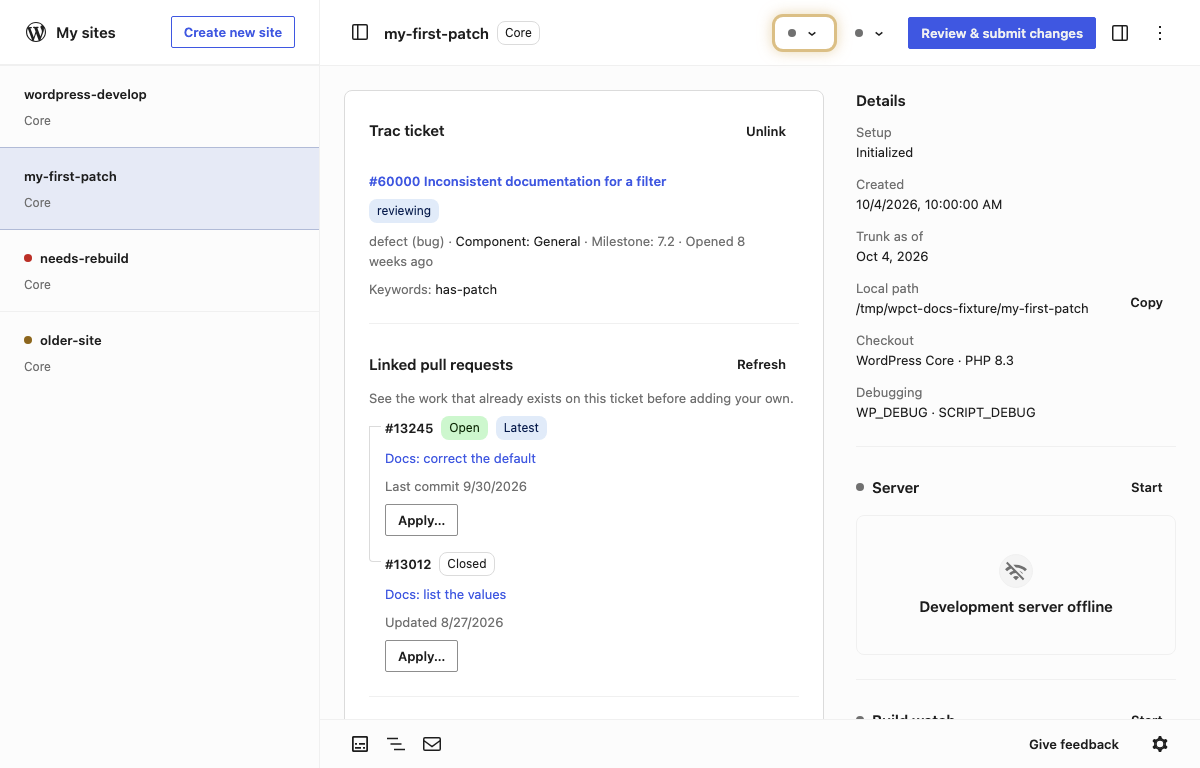
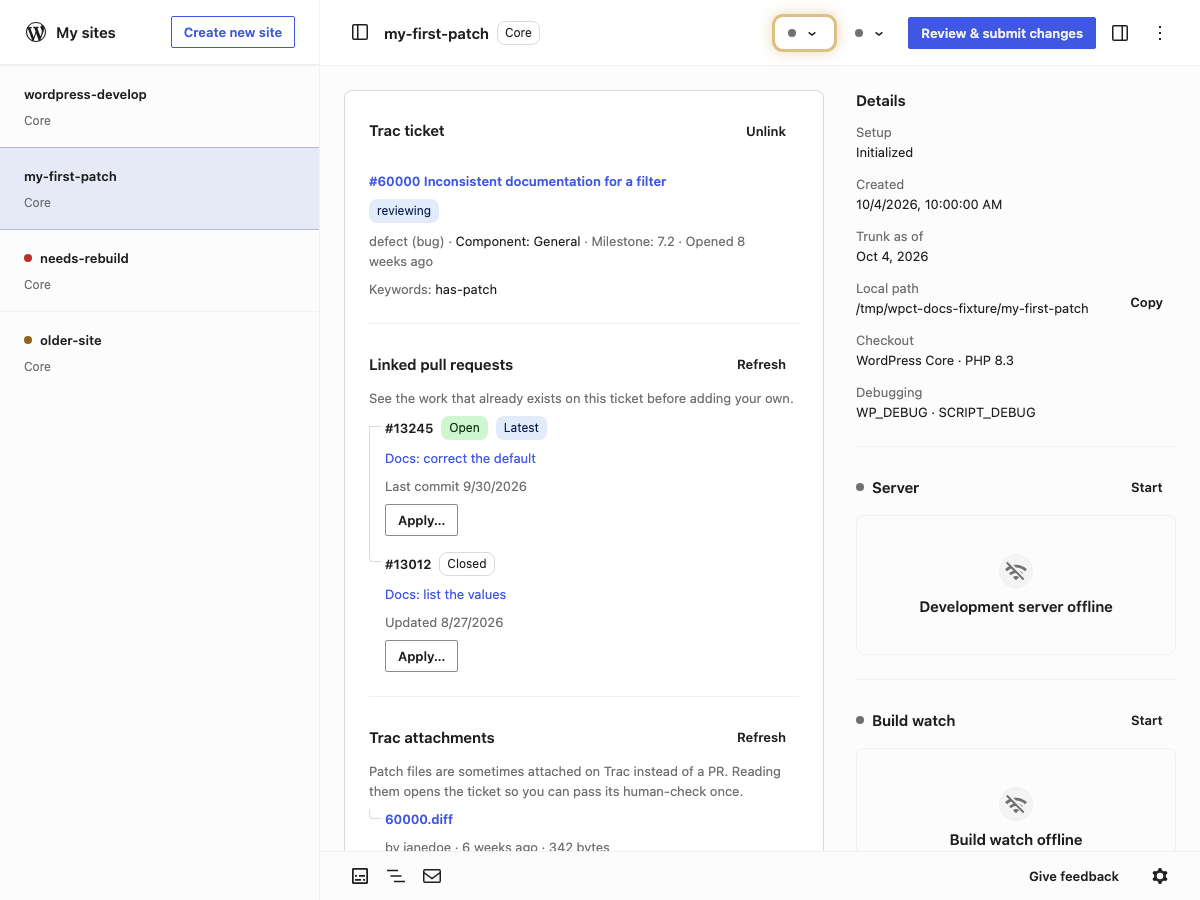
Show the PHP a server starts on, say where error_log() goes, and keep the details whole in the guide's pictures
From the second review. The details named the PHP version set, where the
dialog and the start used the fallback for one the bundle no longer has;
all three now decide it in one place, and the versions are read once by
the hook, which says when they could not be, where the control offered
nothing. error_log() writes to the log and not the page, and the four
sentences say so. The site views are taken in a window tall enough for
the details' Build watch section, which the Debugging row had pushed
under the footer. The require of the PHP versions says whose dependency
it rides on, and the start handler builds its log scope once.

diff --git a/src/renderer/components/settings-dialog.jsx b/src/renderer/components/settings-dialog.jsx
@@ -137,23 +137,17 @@ function GeneralTab({ settings, loaded, onChange }) {
 // versions the bundled Playground has, and the two debug constants that can
 // be turned off. Applied the next time a server starts; one that is running
 // keeps what it started with until it is started again.
-function SitesTab({ settings, onChange }) {
-  const [php, setPhp] = useState(null);
+function SitesTab({ settings, php, onChange }) {
   const [error, setError] = useState('');
-
-  useEffect(() => {
-    let cancelled = false;
-    window.api.listPhpVersions()
-      .then((res) => { if (!cancelled && res?.ok) setPhp({ versions: res.versions, fallback: res.fallback }); })
-      .catch(() => { if (!cancelled) setPhp({ versions: [], fallback: null }); });
-    return () => { cancelled = true; };
-  }, []);
 
   const keep = async (key, value) => {
     const result = await onChange(key, value);
     setError(result?.ok ? '' : (result?.error || __('Could not keep that.')));
   };
   const choice = phpVersionChoice({ versions: php?.versions, fallback: php?.fallback, stored: settings ? settings.phpVersion : null });
+  // The versions could not be read: said in place of a control with nothing
+  // on it, and the version stays as it is.
+  const unread = php?.error ? __('The PHP versions could not be read. Quit the app and open it again.') : '';
 
   return (
     <Stack direction="column" gap="xl">
@@ -164,9 +158,9 @@ function SitesTab({ settings, onChange }) {
         __next40pxDefaultSize
         isBlock
         label={__('PHP version')}
-        help={choice.note || undefined}
+        help={unread || choice.note || undefined}
         value={choice.value || undefined}
-        disabled={!settings || !php}
+        disabled={!settings || !php?.fallback}
         onChange={(value) => { if (value) keep('phpVersion', value); }}
       >
         {(php?.versions || []).map((version) => (
@@ -175,7 +169,7 @@ function SitesTab({ settings, onChange }) {
       </ToggleGroupControl>
       <SwitchControl
         label={__('Report notices and deprecations (WP_DEBUG)')}
-        description={__('Off, notices and deprecations are not reported. Warnings, errors and error_log() calls still reach debug.log and the browser.')}
+        description={__('Off, notices and deprecations are not reported. Warnings and errors still reach debug.log and the browser, and error_log() calls still reach debug.log.')}
         checked={settings ? settings.wpDebug : true}
         disabled={!settings}
         onCheckedChange={(checked) => keep('wpDebug', checked)}
@@ -309,7 +303,7 @@ function AccountTab({ wporg }) {
 // The tabs and what is on each. Inside the dialog's popup, which is there
 // while the dialog is open and not otherwise, so every opening starts on
 // General with nothing typed and not yet saved.
-function SettingsPanels({ settings, loaded, onChange, wporg }) {
+function SettingsPanels({ settings, loaded, php, onChange, wporg }) {
   const [tab, setTab] = useState('general');
   return (
     <Dialog.Content>
@@ -326,7 +320,7 @@ function SettingsPanels({ settings, loaded, onChange, wporg }) {
           <GeneralTab settings={settings} loaded={loaded} onChange={onChange} />
         </Tabs.Panel>
         <Tabs.Panel value="sites" tabIndex={-1} className="settings-panel">
-          <SitesTab settings={settings} onChange={onChange} />
+          <SitesTab settings={settings} php={php} onChange={onChange} />
         </Tabs.Panel>
         <Tabs.Panel value="account" tabIndex={-1} className="settings-panel">
           <AccountTab wporg={wporg} />
@@ -350,11 +344,12 @@ function SettingsPanels({ settings, loaded, onChange, wporg }) {
  * @param {boolean}  props.open     Whether the dialog is open.
  * @param {?Object}  props.settings The settings, or null while they are read.
  * @param {?Object}  props.loaded   The settings as the window first read them, for what takes a relaunch.
+ * @param {?Object}  props.php      The PHP versions the bundle has and the fallback (useSettings), null while unread, `{ error }` when it could not be.
  * @param {Function} props.onChange Changes one setting; resolves to `{ ok, settings }` or `{ ok: false, error }`.
  * @param {Object}   props.wporg    The contributor's details and how to change them.
  * @param {Function} props.onClose  Asked for by the close button, Escape, or a press outside.
  */
-export function SettingsDialog({ open, settings, loaded, onChange, wporg, onClose }) {
+export function SettingsDialog({ open, settings, loaded, php, onChange, wporg, onClose }) {
   return (
     <Dialog.Root open={open} onOpenChange={(next) => { if (!next) onClose(); }}>
       <Dialog.Popup size="medium" className="settings-dialog">
@@ -362,7 +357,7 @@ export function SettingsDialog({ open, settings, loaded, onChange, wporg, onClos
           <Dialog.Title>{__('Settings')}</Dialog.Title>
           <Dialog.CloseIcon />
         </Dialog.Header>
-        <SettingsPanels settings={settings} loaded={loaded} onChange={onChange} wporg={wporg} />
+        <SettingsPanels settings={settings} loaded={loaded} php={php} onChange={onChange} wporg={wporg} />
       </Dialog.Popup>
     </Dialog.Root>
   );

diff --git a/src/renderer/index.jsx b/src/renderer/index.jsx
@@ -83,6 +83,7 @@ import { TicketListCard } from './components/ticket-list.jsx';
 import { useDetectedEditors } from './hooks/use-detected-editors.jsx';
 import { useContributorProvenance } from './hooks/use-contributor-provenance.jsx';
 import { useSettings } from './hooks/use-settings.jsx';
+import { phpVersionChoice } from './settings-view.cjs';
 import { useNextActionCue } from './hooks/use-next-action-cue.jsx';
 import { useSites } from './hooks/use-sites.jsx';
 import { usePullRequest } from './hooks/use-pull-request.jsx';
@@ -132,7 +133,10 @@ function App() {
   const wporg = useContributorProvenance();
   // The app's settings (#559), and the dialog they are changed in. The menu
   // asks for the dialog too, over a subscription the whole window holds.
-  const { settings, loaded: loadedSettings, change: changeSetting } = useSettings();
+  const { settings, loaded: loadedSettings, php: phpVersions, change: changeSetting } = useSettings();
+  // The PHP a server starts on: the one set where the bundle has it, and
+  // the fallback where it does not, decided where the dialog decides it.
+  const startingPhp = settings ? phpVersionChoice({ versions: phpVersions?.versions, fallback: phpVersions?.fallback, stored: settings.phpVersion }).value : null;
   const [settingsOpen, setSettingsOpen] = useState(false);
   const openSettings = useCallback(() => setSettingsOpen(true), []);
   const closeSettings = useCallback(() => setSettingsOpen(false), []);
@@ -685,6 +689,7 @@ function App() {
                         label={siteMeta?.[s]?.label}
                         projectType={siteMeta?.[s]?.projectType}
                         settings={settings}
+                        startingPhp={startingPhp}
                         onInitialized={onInitialized}
                         onSiteMetaPatch={onSiteMetaPatch}
                         onDelete={onDelete}
@@ -721,7 +726,7 @@ function App() {
         </div>
       )}
       <CreateSiteDialog open={createModalOpen} submitting={createSubmitting} defaultDir={settings ? settings.newSiteLocation : null} onCreate={startSiteSetup} onClose={closeCreateModal} />
-      <SettingsDialog open={settingsOpen} settings={settings} loaded={loadedSettings} onChange={changeSetting} wporg={wporg} onClose={closeSettings} />
+      <SettingsDialog open={settingsOpen} settings={settings} loaded={loadedSettings} php={phpVersions} onChange={changeSetting} wporg={wporg} onClose={closeSettings} />
     </div>
     </SlotFillProvider>
     {/* One toast region for the window (#253, #557). In the bottom corner,
@@ -740,7 +745,7 @@ function App() {
   );
 }
 
-function SiteRow({ sitePath, initialized, createdAt, label, projectType = null, settings = null, onInitialized, onSiteMetaPatch, onDelete, onRename, onCreateSite, editor, wporg, isPending = false, isDeleting = false, setupLogs = '', isActive = false, switchProgress = null, carriedWork = null, onClearSwitchNotices = null, deepLink = null, onDeepLinkDone = null, detailsOpen = true, onToggleDetails = null, tray = null, onShowTray = null }) {
+function SiteRow({ sitePath, initialized, createdAt, label, projectType = null, settings = null, startingPhp = null, onInitialized, onSiteMetaPatch, onDelete, onRename, onCreateSite, editor, wporg, isPending = false, isDeleting = false, setupLogs = '', isActive = false, switchProgress = null, carriedWork = null, onClearSwitchNotices = null, deepLink = null, onDeepLinkDone = null, detailsOpen = true, onToggleDetails = null, tray = null, onShowTray = null }) {
   // The window's confirmation queue (#253): confirm(message) after an action
   // completes, so the outcome is announced rather than left silent or buried in
   // the terminal.
@@ -2240,8 +2245,9 @@ function SiteRow({ sitePath, initialized, createdAt, label, projectType = null, 
           trunk: age,
           path: sitePath,
           checkout: project.label,
-          // What every site's server starts with (#559), from the settings.
-          phpVersion: settings ? settings.phpVersion : null,
+          // What every site's server starts with (#559), from the settings:
+          // the PHP it will start on, which is not always the one set.
+          phpVersion: startingPhp,
           debug: settings ? { wpDebug: settings.wpDebug, scriptDebug: settings.scriptDebug } : null
         }}
         pathCopied={pathCopied}

diff --git a/src/main.js b/src/main.js
@@ -728,6 +728,8 @@ ipcMain.handle('i18n:languages', async () => ({ ok: true, languages: await langu
 let phpVersionsList = null;
 function phpVersions() {
 	if (!phpVersionsList) {
+		// Not a declared dependency: it is @wp-playground/cli's, at whatever
+		// version that package pins, which is the one the runner serves with.
 		const { SupportedPHPVersions } = require('@php-wasm/universal');
 		phpVersionsList = [...SupportedPHPVersions];
 	}
@@ -3852,10 +3854,11 @@ ipcMain.handle('playground:start', async (event, sitePath) => {
 	// The PHP version and the debug flags the settings hold (#559), read at
 	// each start so a change applies to the next. A version the bundled
 	// Playground no longer has, after a bump, is passed over for the fallback.
+	const logScope = playgroundLogScope(sitePath);
 	const settings = readSettings((await getStore()).get('preferences'));
 	const phpVersion = phpVersions().includes(settings.phpVersion) ? settings.phpVersion : SETTINGS.phpVersion.fallback;
 	if (phpVersion !== settings.phpVersion) {
-		logEvent(playgroundLogScope(sitePath), `PHP ${settings.phpVersion} is set but this build does not have it; starting on PHP ${phpVersion}`);
+		logEvent(logScope, `PHP ${settings.phpVersion} is set but this build does not have it; starting on PHP ${phpVersion}`);
 	}
 	const serveConfig = {
 		...(isPluginMount
@@ -3866,7 +3869,6 @@ ipcMain.handle('playground:start', async (event, sitePath) => {
 	};
 	const serveCwd = isPluginMount ? sitePath : buildDir;
 	const runnerPath = path.join(__dirname, 'server-runner.js');
-	const logScope = playgroundLogScope(sitePath);
 	logEvent(logScope, `starting ${serve.strategy} server for ${serveCwd} on PHP ${phpVersion}, WP_DEBUG ${settings.wpDebug ? 'on' : 'off'}, SCRIPT_DEBUG ${settings.scriptDebug ? 'on' : 'off'} (smtp port ${(smtp && smtp.port) ? smtp.port : 25})`);
 	const child = spawnRunner(runnerPath, [JSON.stringify(serveConfig)], {
 		cwd: serveCwd,

diff --git a/src/renderer/hooks/use-settings.jsx b/src/renderer/hooks/use-settings.jsx
@@ -6,9 +6,15 @@ import { useCallback, useEffect, useState } from 'react';
 // dialog opened before then can say it is still reading them. `loaded` is
 // what main answered first and does not change: a setting that takes a
 // relaunch, the language, is one whose value now differs from it.
+// `php` is what the bundled Playground can run a site on, `{ versions,
+// fallback }`, read once with the settings: the dialog offers the versions
+// and the details say which one a server starts on, which is the fallback
+// where the one set is not among them. Null until read; `{ error }` when it
+// could not be, so the dialog can say so rather than offer nothing.
 export function useSettings() {
   const [settings, setSettings] = useState(null);
   const [loaded, setLoaded] = useState(null);
+  const [php, setPhp] = useState(null);
 
   useEffect(() => {
     let cancelled = false;
@@ -20,6 +26,16 @@ export function useSettings() {
       })
       // eslint-disable-next-line no-console -- reaches the log file, see the note in useDetectedEditors.
       .catch((err) => console.error('Could not read the settings:', err));
+    window.api.listPhpVersions()
+      .then((res) => {
+        if (cancelled) return;
+        setPhp(res?.ok ? { versions: res.versions, fallback: res.fallback } : { error: true });
+      })
+      .catch((err) => {
+        // eslint-disable-next-line no-console -- see the note above.
+        console.error('Could not read the PHP versions:', err);
+        if (!cancelled) setPhp({ error: true });
+      });
     return () => { cancelled = true; };
   }, []);
 
@@ -39,5 +55,5 @@ export function useSettings() {
     return result;
   }, []);
 
-  return { settings, loaded, change };
+  return { settings, loaded, php, change };
 }

diff --git a/src/wp-debug-constants.js b/src/wp-debug-constants.js
@@ -75,9 +75,9 @@ const WP_DEBUG_CONSTANTS = Object.freeze({
  * it is, and so does what Playground does on its own: its php.ini keeps
  * display_errors and log_errors on, and its mu-plugin points error_log at
  * debug.log while WP_DEBUG_LOG is on. So WP_DEBUG off takes away notices and
- * deprecations, which is what WP_DEBUG governs in WordPress's error_reporting,
- * and warnings, errors and error_log() calls still reach the log and the
- * browser. The settings say as much.
+ * deprecations, which is what WP_DEBUG governs in WordPress's error_reporting;
+ * warnings and errors still reach the log and the browser, and error_log()
+ * calls still reach the log. The settings say as much.
  *
  * @param {Object}  [debug]
  * @param {boolean} [debug.wpDebug]     WP_DEBUG; on unless told otherwise.

diff --git a/docs/guide/settings.md b/docs/guide/settings.md
@@ -12,7 +12,7 @@ The app's settings are in one dialog, opened from the cog at the bottom right of
 What every site's development server runs with. A change applies the next time a server starts; one that is running keeps what it started with until you stop and start it. The open site's details, in the right-hand column, show the PHP version beside the checkout and which debug constants are on.
 
 - **PHP version** — the PHP the site runs on, from the versions the bundled WordPress Playground has. 8.3 unless you choose another.
-- **Report notices and deprecations (WP_DEBUG)** — on, notices and deprecations are reported along with warnings and errors, written to `debug.log` and shown in the browser; see [Logs and debugging](./logs-and-debugging). Off, notices and deprecations are not reported; warnings, errors and `error_log()` calls still reach `debug.log` and the browser, which the app's PHP keeps on whatever WP_DEBUG says.
+- **Report notices and deprecations (WP_DEBUG)** — on, notices and deprecations are reported along with warnings and errors, written to `debug.log` and shown in the browser; see [Logs and debugging](./logs-and-debugging). Off, notices and deprecations are not reported; warnings and errors still reach `debug.log` and the browser, and `error_log()` calls still reach `debug.log`: the app's PHP keeps logging and display on whatever WP_DEBUG says.
 - **Use unminified scripts (SCRIPT_DEBUG)** — on, Core serves its JavaScript and CSS unminified.
 
 ## Account

diff --git a/docs/guide/logs-and-debugging.md b/docs/guide/logs-and-debugging.md
@@ -22,7 +22,7 @@ Anything WordPress or your code writes to the PHP error log — `error_log()` ca
 
 | Constant | Value | Effect |
 | --- | --- | --- |
-| `WP_DEBUG` | `true` | Notices, warnings, and deprecations are reported. Off in Settings, notices and deprecations are not; warnings, errors and `error_log()` calls still reach the log and the browser. |
+| `WP_DEBUG` | `true` | Notices, warnings, and deprecations are reported. Off in Settings, notices and deprecations are not; warnings and errors still reach the log and the browser, and `error_log()` calls still reach the log. |
 | `WP_DEBUG_LOG` | `true` | They are written to `wp-content/debug.log`, which this panel tails. |
 | `WP_DEBUG_DISPLAY` | `true` | Errors are also printed in the browser. |
 | `SCRIPT_DEBUG` | `true` | Core serves unminified JS and CSS. Can be turned off in Settings. |
